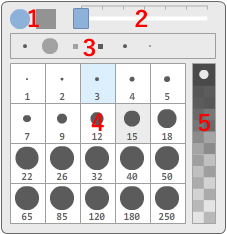
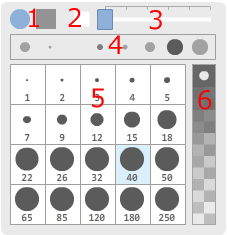
upd

diff --git a/jp.html b/jp.html
@@ -214,10 +214,11 @@
 
       <img src="img/penlist.png"><p></p>
       1: ペンの形を変更します。<br>
-      2: 手ぶれ補正バーです。<br>
-      3: ペン設定プリセットです。ペンのサイズ、形などを設定して、臨んだところにマウス右クリック、もしやCtrl+クリックするとプリセットを登録できます。<br>
-      4: ペンサイズリストです。<br>
-      5: 透明度調節バーです。<br>
+      2: ペンの座標をピクセルにぴったり合わせます。線の感じがもっとシャープになります。<br>
+      3: 手ぶれ補正バーです。<br>
+      4: ペン設定プリセットです。ペンのサイズ、形などを設定して、臨んだところにマウス右クリック、もしやCtrl+クリックするとプリセットを登録できます。<br>
+      5: ペンサイズリストです。<br>
+      6: 透明度調節バーです。<br>
       * 消しゴムとペン（直線ツール）のデータは別で管理されています。<p></p>
 
       <img src="img/pickerbox.png"><p></p>
@@ -280,7 +281,7 @@
 
       [4] Clip-boardからイメージ読み込み<p></p>
       Ctrl+Cとかでコピーしたイメージがあればこのボタンが活性化します。あとこのボタンを2回押す、またはショートカットキー Ctrl+Vを２回押せばイメージを読み込むことができます。<p></p>
-      
+
       <img src="img/topbar.png"><p></p>
 
       [5] データの消去<p></p>
@@ -303,7 +304,7 @@
       新しいバージョンがリリーズした場合もこの窓が出てきます。<br>
       窓の下の Used memoryはキャンバスのサイズが広いほど複雑なイメージを描くほど増加します。<br>
       Cached imageは リプレイモードでフレーム探索の性能を高めるために作ったイメージの総サイズです。長い時間描くほど、サイズが大きくなります。<p></p>
-      
+
       <img src="img/topbar.png"><p></p>
 
       [10]　リプレイモード<p></p>

diff --git a/kr.html b/kr.html
@@ -219,10 +219,11 @@
 
       <img src="img/penlist.png"><p></p>
       1: 펜모양을 바꿉니다.<br>
-      2: 손떨림 방지를 조절합니다.수치가 클수록 선이 늦게 따라오지만 깔끔한 선이 그어집니다.<br>
-      3: 펜 설정 프리셋 상자입니다. 펜크기, 투명도, 모양을 선택한 후 등록을 원하는 곳에 오른쪽 클릭 혹은, Ctrl키+클릭하면 프리셋이 등록됩니다.<br>
-      4: 펜크기 목록입니다.<br>
-      5: 펜(지우개) 투명도 조절 상자 입니다.<br>
+      2: 펜 좌표를 픽셀에 정확히 맞춥니다.선느낌이 날카로워 집니다.<br>
+      3: 손떨림 방지를 조절합니다.수치가 클수록 선이 늦게 따라오지만 깔끔한 선이 그어집니다.<br>
+      4: 펜 설정 프리셋 상자입니다. 펜크기, 투명도, 모양을 선택한 후 등록을 원하는 곳에 오른쪽 클릭 혹은, Ctrl키+클릭하면 프리셋이 등록됩니다.<br>
+      5: 펜크기 목록입니다.<br>
+      6: 펜(지우개) 투명도 조절 상자 입니다.<br>
       * 지우개와 펜(직선)의 크기,투명도 데이터는 따로 관리합니다.<p></p>
 
       <img src="img/pickerbox.png"><p></p>
@@ -242,7 +243,7 @@
         <source src="img/pbox.mp4" type="video/mp4"/>
       </video><p></p>
       <h2 id="c3">메뉴 버튼</h2><hr>
-      
+
       <img src="img/topbar.png"><p></p>
 
       [1] 저장 <p></p>
@@ -298,7 +299,7 @@
       Cached image는 리플레이모드에서 프레임 탐색 성능 향상을 위해서 만든 이미지의 용량입니다. 오래 그린 그림일수록 용량이 증가합니다.<p></p>
 
       <img src="img/topbar.png"><p></p>
-      
+
       [10] 리플레이 모드<p></p>
       리플레이 모드/그리기 모드로 번갈아 가며 변경합니다. 리플레이 모드에 대한 설명은 <a href="#c4">여기를 참고하세요.</a><p></p>
 

diff --git a/en.html b/en.html
@@ -1,4 +1,4 @@
-<html lang="en">
+\<html lang="en">
 <head>
   <meta charset="UTF-8">
   <meta name="viewport" content="width=device-width, initial-scale=1.0">
@@ -217,10 +217,11 @@
 
       <img src="img/penlist.png"><p></p>
       1: Change pen shape<br>
-      2: Adjust Stroke Smoothing <br>
-      3: Pen seting preset box. Click right mouse button or Ctrl+Click to add new pen setting presets<br>
-      4: Pen size list<br>
-      5: Adjust opacity<p></p>
+      2: Pixel-snap ON/OFF. If set ON, line feeling becomes little sharp.<br>
+      3: Adjust Stroke Smoothing <br>
+      4: Pen seting preset box. Click right mouse button or Ctrl+Click to add new pen setting presets<br>
+      5: Pen size list<br>
+      6: Adjust opacity<p></p>
 
 
       <img src="img/pickerbox.png"><p></p>
@@ -268,7 +269,7 @@
 
       [4] Load image from clip-board<p></p>
       If there is copied image on clipboard, this button active. If you want load the image, click this button 2 times, or press Ctrl+V 2 times.<p></p>
-      
+
       <img src="img/topbar.png"><p></p>
 
       [5] Delete all data<p></p>

diff --git a/index.html b/index.html
@@ -103,7 +103,7 @@
           <a href="https://groups.google.com/forum/#!forum/fofo-paint-forum"><h4>FOFO Paint Forum</h4></a>
         </p>
         <h1>Download</h1>
-        <p><a href="https://github.com/guljam/2020FlashPaint/releases/download/setup/fofoPaint_Setup.zip"><span>Windows (ver 7.02)</span></a> <span>/ Mac (need tester)</span></p>
+        <p><a href="https://github.com/guljam/2020FlashPaint/releases/download/setup/fofoPaint_Setup.zip"><span>Windows (ver 7.1)</span></a> <span>/ Mac (need tester)</span></p>
         <p><a href="releasenote.txt">release note</a></p>
         <h1>Manual</h1>
         <p>
